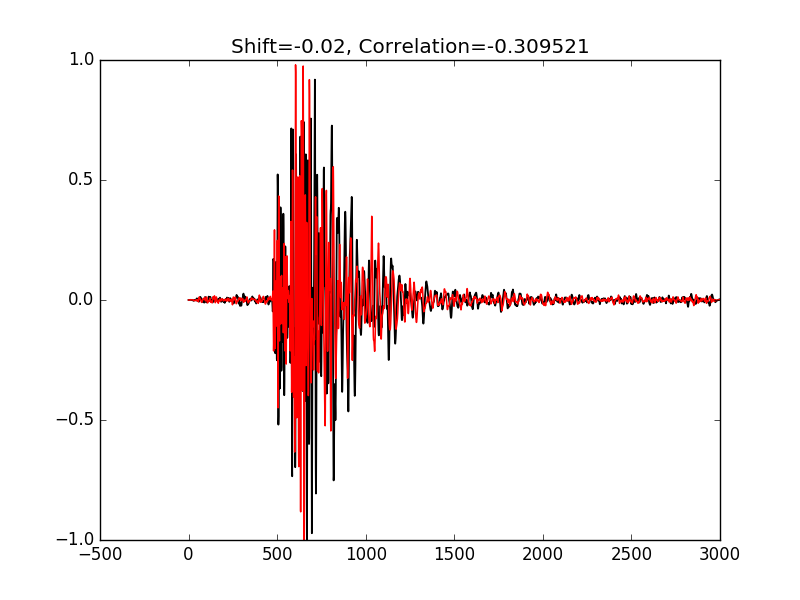
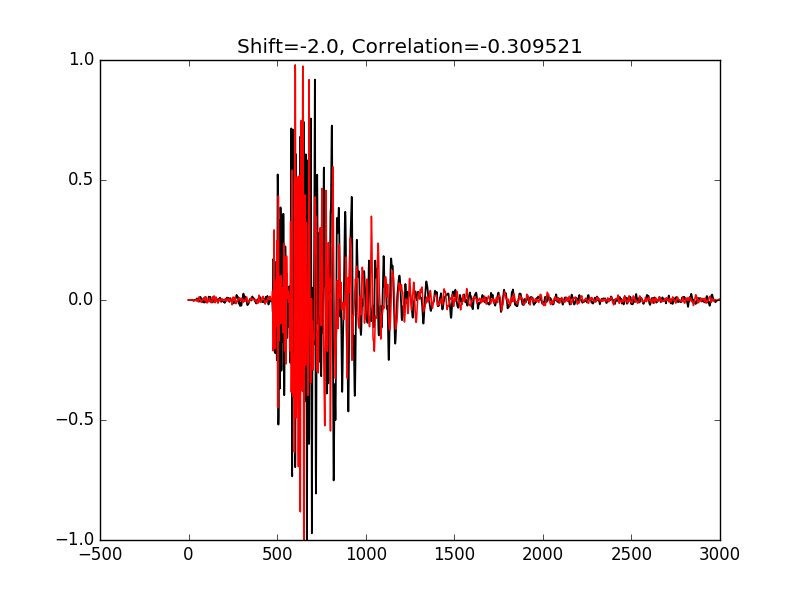
fix doc-string and bug-fix xcorr_plot

Changed region(s): [[0.25, 0.15, 0.875, 0.84], [0.2812, 0.06, 0.75, 0.09]]

diff --git a/eqcorrscan/core/match_filter.py b/eqcorrscan/core/match_filter.py
@@ -360,7 +360,7 @@ def _channel_loop(templates, stream, cores=1, do_subspace=False, debug=0):
     """
     Internal loop for parallel processing.
 
-    Loop to generate cross channel correaltion sums for a series of templates \
+    Loop to generate cross channel correlation sums for a series of templates \
     hands off the actual correlations to a sister function which can be run \
     in parallel.
 
@@ -370,9 +370,8 @@ def _channel_loop(templates, stream, cores=1, do_subspace=False, debug=0):
         the relevant header information. If do_subspace is True, templates \
         should be a list of lists of obspy.Stream objects, one list for each \
         detector of length n, where n is the number of singular vectors.
-    :param stream: A single obspy.Stream object containing daylong seismic \
-        data to be correlated through using the templates.  This is in effect \
-        the image.
+    :param stream: A single obspy.Stream object to be correlated with the \
+        templates.  This is in effect the image in normxcorr2 and cv2.
     :type cores: int
     :param cores: Number of cores to loop over
     :type do_subspace: bool

diff --git a/eqcorrscan/utils/plotting.py b/eqcorrscan/utils/plotting.py
@@ -99,14 +99,16 @@ def xcorr_plot(template, image, shift=None, cc=None, cc_vec=None, save=False,
     >>> from eqcorrscan.utils.stacking import align_traces
     >>> st = read().detrend('simple').filter('bandpass', freqmin=2, freqmax=15)
     >>> shifts, ccs = align_traces([st[0], st[1]], 40)
-    >>> xcorr_plot(template=st[1].data, image=st[0].data, shift=shifts[1],
-    ...            cc=ccs[1]) # doctest: +SKIP
+    >>> shift = shifts[1] * st[1].stats.sampling_rate
+    >>> cc = ccs[1]
+    >>> xcorr_plot(template=st[1].data, image=st[0].data, shift=shift,
+    ...            cc=cc) # doctest: +SKIP
 
     .. image:: ../../plots/xcorr_plot.png
     """
     _check_save_args(save, savefile)
-    if not cc or not shift:
-        if not cc_vec:
+    if not isinstance(cc, float) or not isinstance(shift, int):
+        if not isinstance(cc_vec, np.ndarray):
             raise IOError('Must provide either cc_vec, or cc and shift')
         shift = np.abs(cc_vec).argmax()
         cc = cc_vec[shift]

diff --git a/eqcorrscan/__init__.py b/eqcorrscan/__init__.py
@@ -37,7 +37,7 @@ import warnings
 __all__ = ['core', 'utils']
 
 
-__version__ = '0.1.3'
+__version__ = '0.1.4rc'
 
 
 # Cope with changes to name-space to remove most of the camel-case
